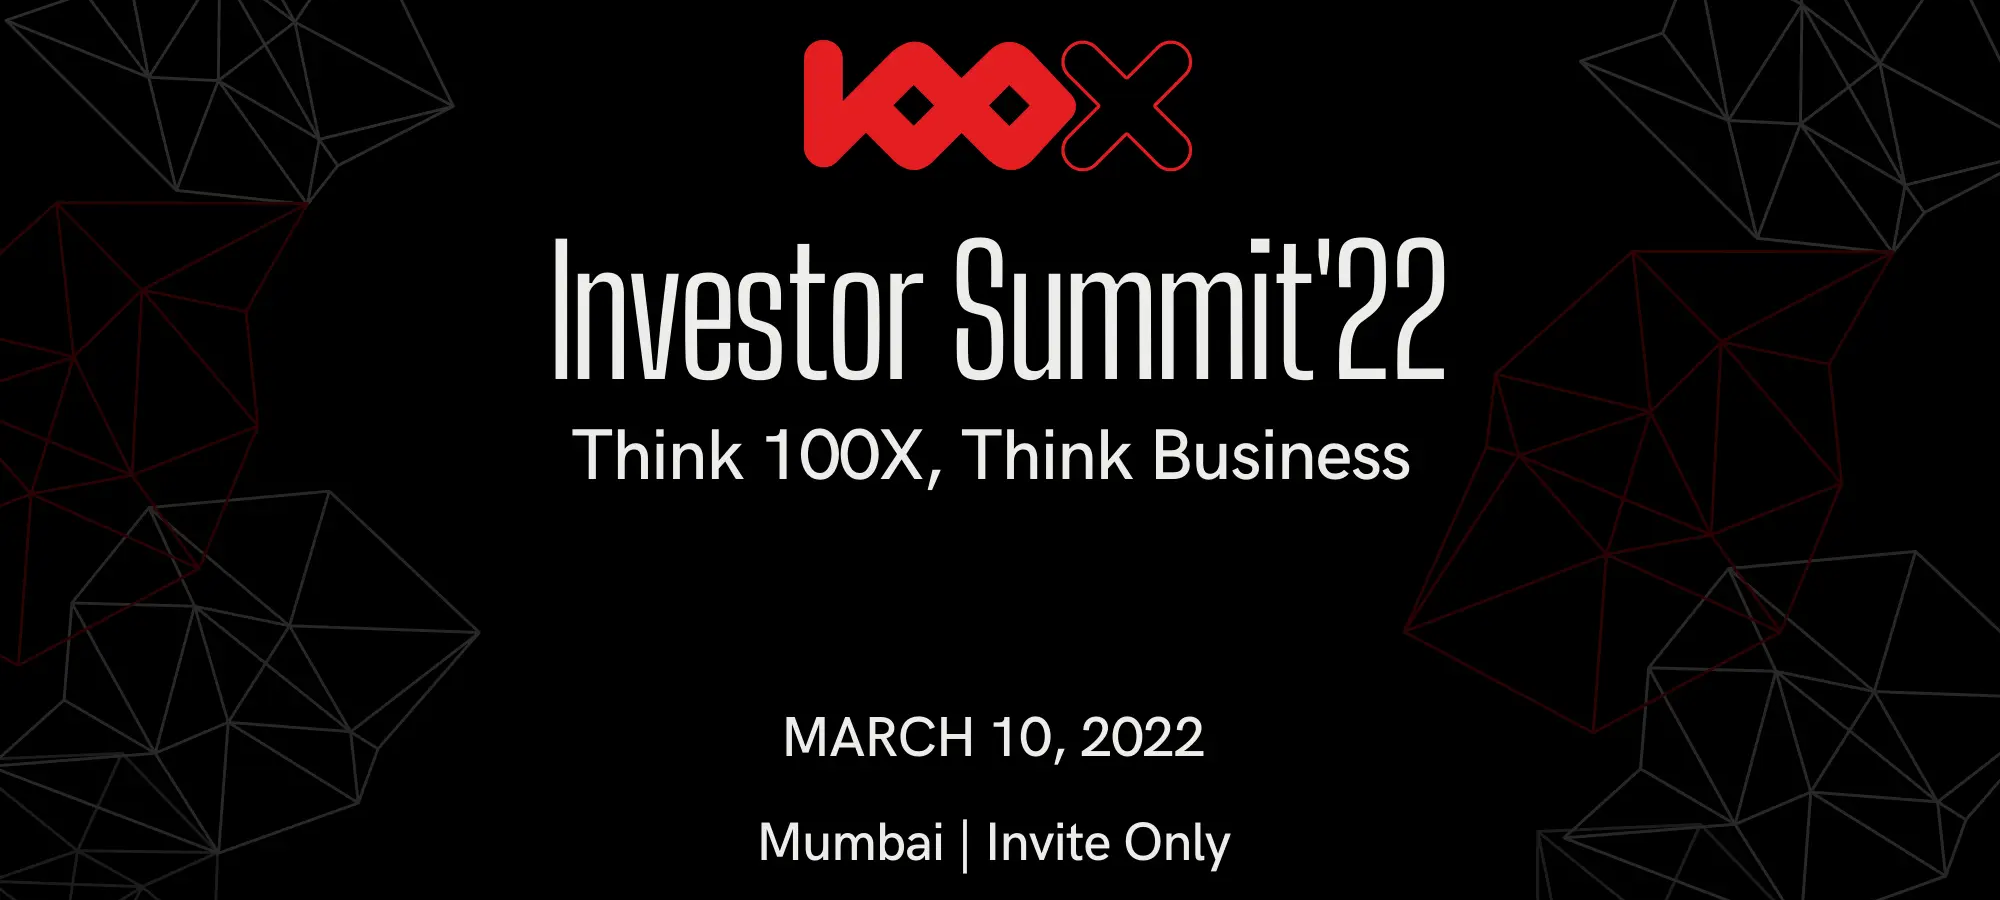
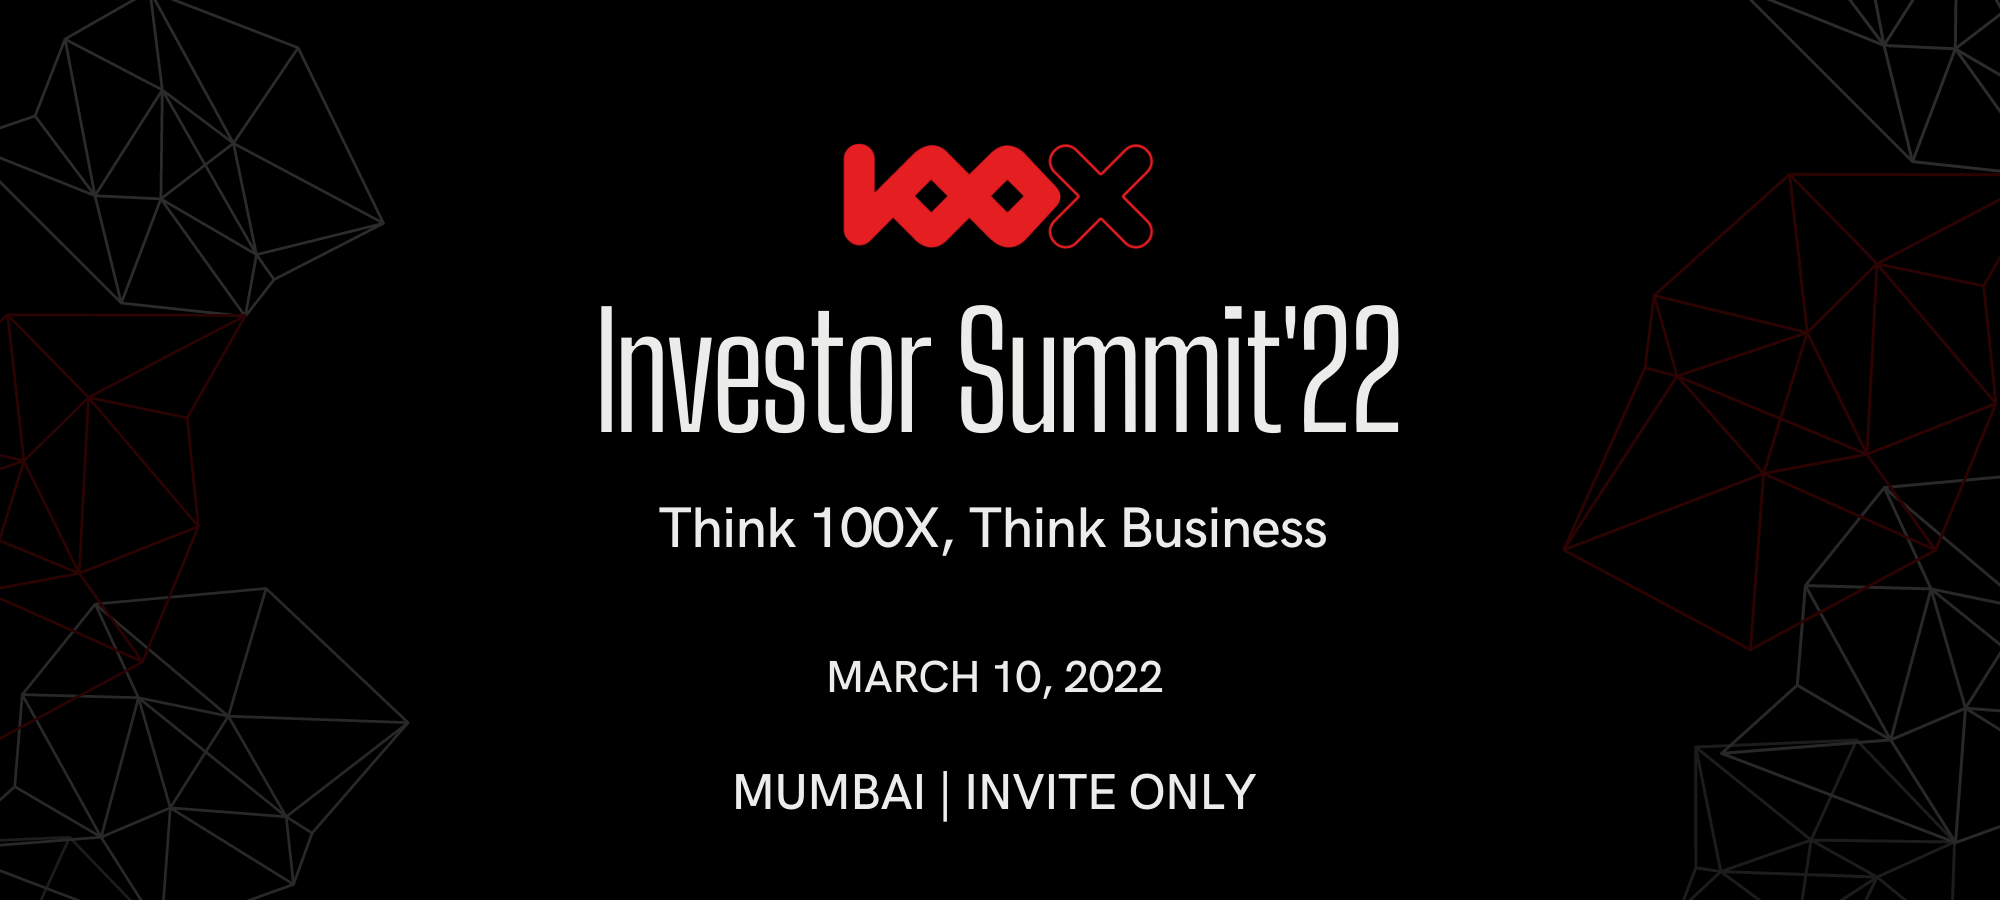
Update Image, Update Twitter Card

diff --git a/index.html b/index.html
@@ -7,7 +7,9 @@
     <meta name="viewport" content="width=device-width">
     <meta name="viewport" content="width=device-width, initial-scale=1">
 
-    <meta name="twitter:card" content="
+    <meta name="twitter:card" content="summary_large_image"/>
+    <meta name="twitter:title" content="100X.VC Investor Summit 2022 | 10th March 2022"/>
+    <meta name="twitter:description" content="
         On 10th March 2022, in Mumbai, 100X.VC is hosting its first annual 100X Investor Summit. This will give delegates
         unique access to the tech, entrepreneurs and investors of India. 100X invite means business.
         We will deep dive into booming tech, trends & sectors that will help discover unicorns.
@@ -16,6 +18,7 @@
         Join 100X mission of improving access to early-stage capital, educating investors and building an India focused
         startup community. Let’s build the best innovation ecosystem in India together.
         This summit is designed to inspire exponential thinking."/>
+    <meta property="twitter:image" content="OgImage.png" />
     <meta name="twitter:site" content="@100X_VC" />
     <meta property="og:url" content="http://summit.100x.vc"/>
     <meta property="og:title" content="100X.VC Investor Summit 2022 | India's biggest Summit Investor Summit" />
